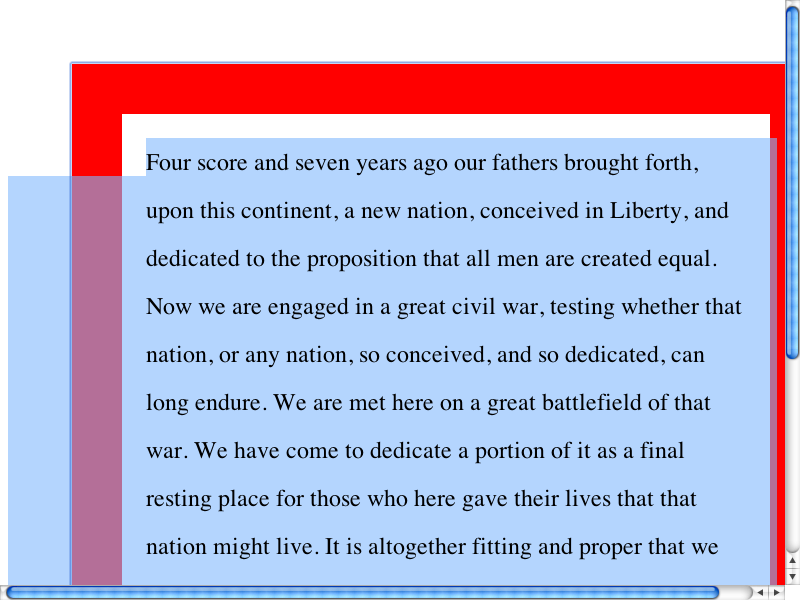
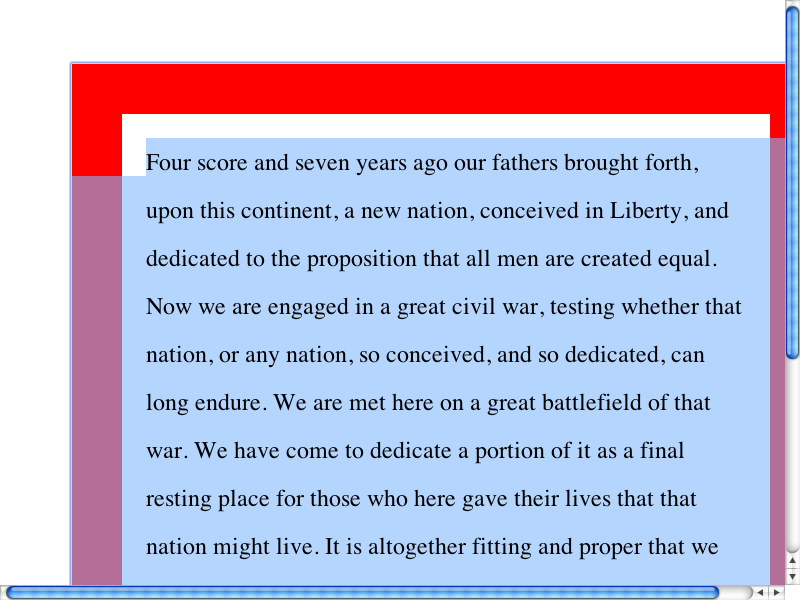
LayoutTests:
Reviewed by justin
        
        <http://bugzilla.opendarwin.org/show_bug.cgi?id=6933>
        Selection extends beyond focus ring for some contentEditable divs

        * editing/selection/extend-by-word-002-expected.checksum:
        * editing/selection/extend-by-word-002-expected.png:
        * editing/selection/select-all-001-expected.checksum:
        * editing/selection/select-all-001-expected.png:
        * editing/selection/select-all-002-expected.checksum:
        * editing/selection/select-all-002-expected.png:

WebCore:

        <http://bugzilla.opendarwin.org/show_bug.cgi?id=6933>
        Selection extends beyond focus ring for some contentEditable divs

        Reviewed by justin

        * rendering/RenderBlock.cpp:
        (WebCore::RenderBlock::isSelectionRoot): Have root editable elements paint their
        own selection gaps.

git-svn-id: https://svn.webkit.org/repository/webkit/trunk@12986 268f45cc-cd09-0410-ab3c-d52691b4dbfc

Changed region(s): [[0.0, 0.27, 0.0938, 0.99], [0.9688, 0.21, 1.0, 0.99]]

diff --git a/WebCore/rendering/RenderBlock.cpp b/WebCore/rendering/RenderBlock.cpp
@@ -1427,9 +1427,24 @@ bool RenderBlock::shouldPaintSelectionGaps() const
 
 bool RenderBlock::isSelectionRoot() const
 {
+    if (!element())
+        return false;
+        
     // FIXME: Eventually tables should have to learn how to fill gaps between cells, at least in simple non-spanning cases.
-    return (isBody() || isRoot() || hasOverflowClip() || isRelPositioned() ||
-            isFloatingOrPositioned() || isTableCell() || isInlineBlockOrInlineTable());
+    if (isTable())
+        return false;
+        
+    if (isBody() || isRoot() || hasOverflowClip() || isRelPositioned() ||
+        isFloatingOrPositioned() || isTableCell() || isInlineBlockOrInlineTable())
+        return true;
+    
+    if (canvas() && canvas()->selectionStart()) {
+        NodeImpl* startElement = canvas()->selectionStart()->element();
+        if (startElement && startElement->rootEditableElement() == element())
+            return true;
+    }
+    
+    return false;
 }
 
 GapRects RenderBlock::selectionGapRects()
